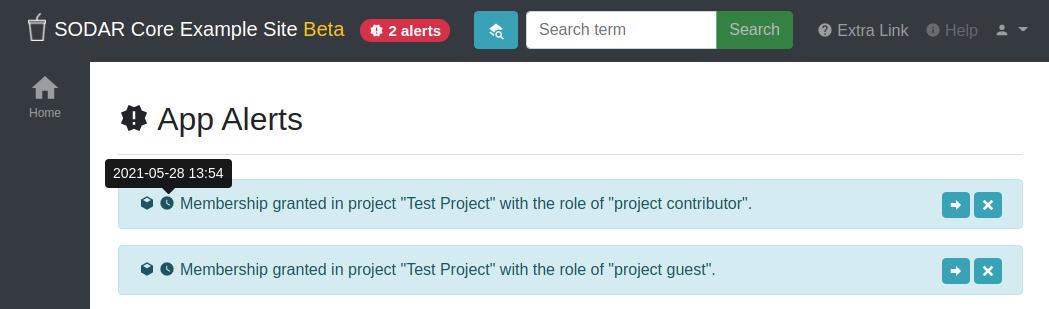
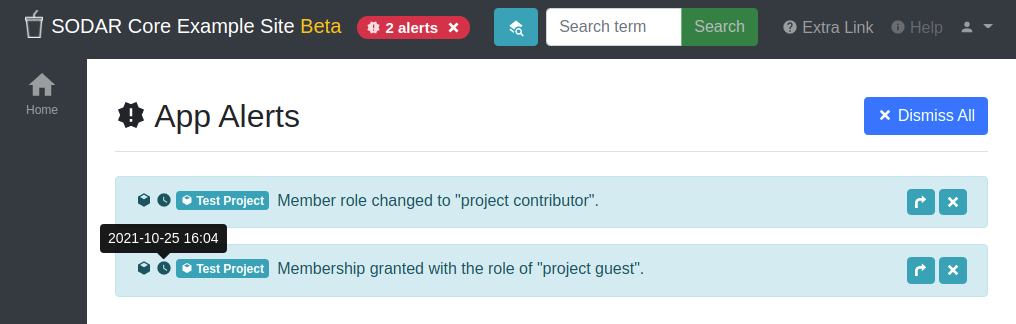
fix app alert badge content wrapping (#846), update app alerts screenshot in docs (#820)

diff --git a/projectroles/templates/projectroles/_site_titlebar.html b/projectroles/templates/projectroles/_site_titlebar.html
@@ -55,7 +55,7 @@
                   <span id="sodar-app-alert-count">{{ app_alerts }}</span>
                   <span id="sodar-app-alert-legend">alert{% if app_alerts != 1 %}s{% endif %}</span>
                   <a id="sodar-app-alert-badge-btn-dismiss"
-                     class="pull-right text-white ml-2" role="button"
+                     class="text-white ml-1" role="button"
                      title="Dismiss all" data-toggle="tooltip"
                      data-dismiss-url="{% url 'appalerts:ajax_dismiss_all' %}">
                     <i class="iconify" data-icon="mdi:close-thick"></i>

diff --git a/CHANGELOG.rst b/CHANGELOG.rst
@@ -51,6 +51,7 @@ Fixed
 - **Projectroles**
     - ``sodar-overflow-container`` failing with certain tables (#830)
     - Sort icons not displayed on search results page (#841)
+    - App alert badge content wrapping (#846)
 - **Timeline**
     - Crash from invalid plugin name in ``get_event_description()`` (#831)
     - Redundant database queries in ``get_event_description()`` (#834)
